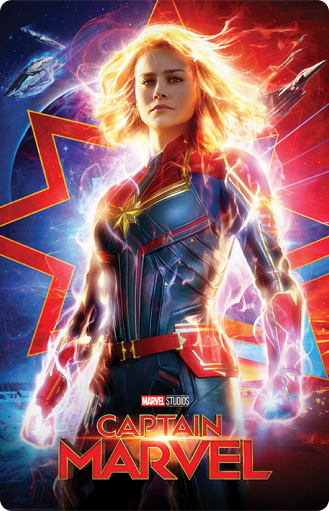
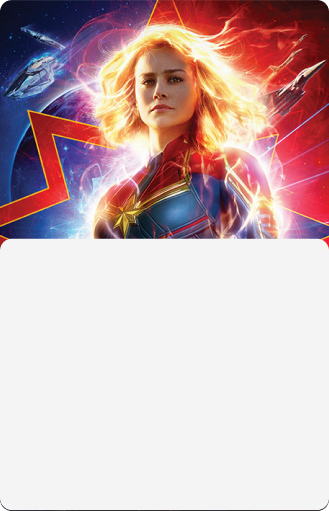
Atualização das imagens filmes Mobile

diff --git a/style.css b/style.css
@@ -89,37 +89,6 @@ h2 {
    
 }
 
-.card1-1 {
-    
-    display: flex;
-    flex-direction: column;
-    background-image: url('./img/filme1.png');
-    height: 400px;
-    width: 319px;
-    background-repeat: no-repeat; 
-    border-radius: 15px; 
-    align-items:baseline; 
-    margin-left: 0.5px; 
-    
-    
-}
-
-.sobreImg {    
-    display: inline-flex;
-    flex-direction: column;
-    width: 321px;
-    height: 200px ;
-    align-items: center;
-    
-}
-
-.sobreImg img{ 
-    position:absolute;
-    width: 321px;
-    height: 200px ;
-    margin-top: -199px;
-    border-radius: 5px;    
-}
 
 button {
     background-color: #33BB69;
@@ -133,13 +102,6 @@ button {
     border-style: none; 
 }
 
-.btnAbrir {
-    position: relative;
-    margin-top: -105px;    
-}
-
-.titulos{
-    font-size: 20px;
-    font-family: Arial, Helvetica, sans-serif;
-    font-weight: bold;  
+.filme1 {
+    
 }
